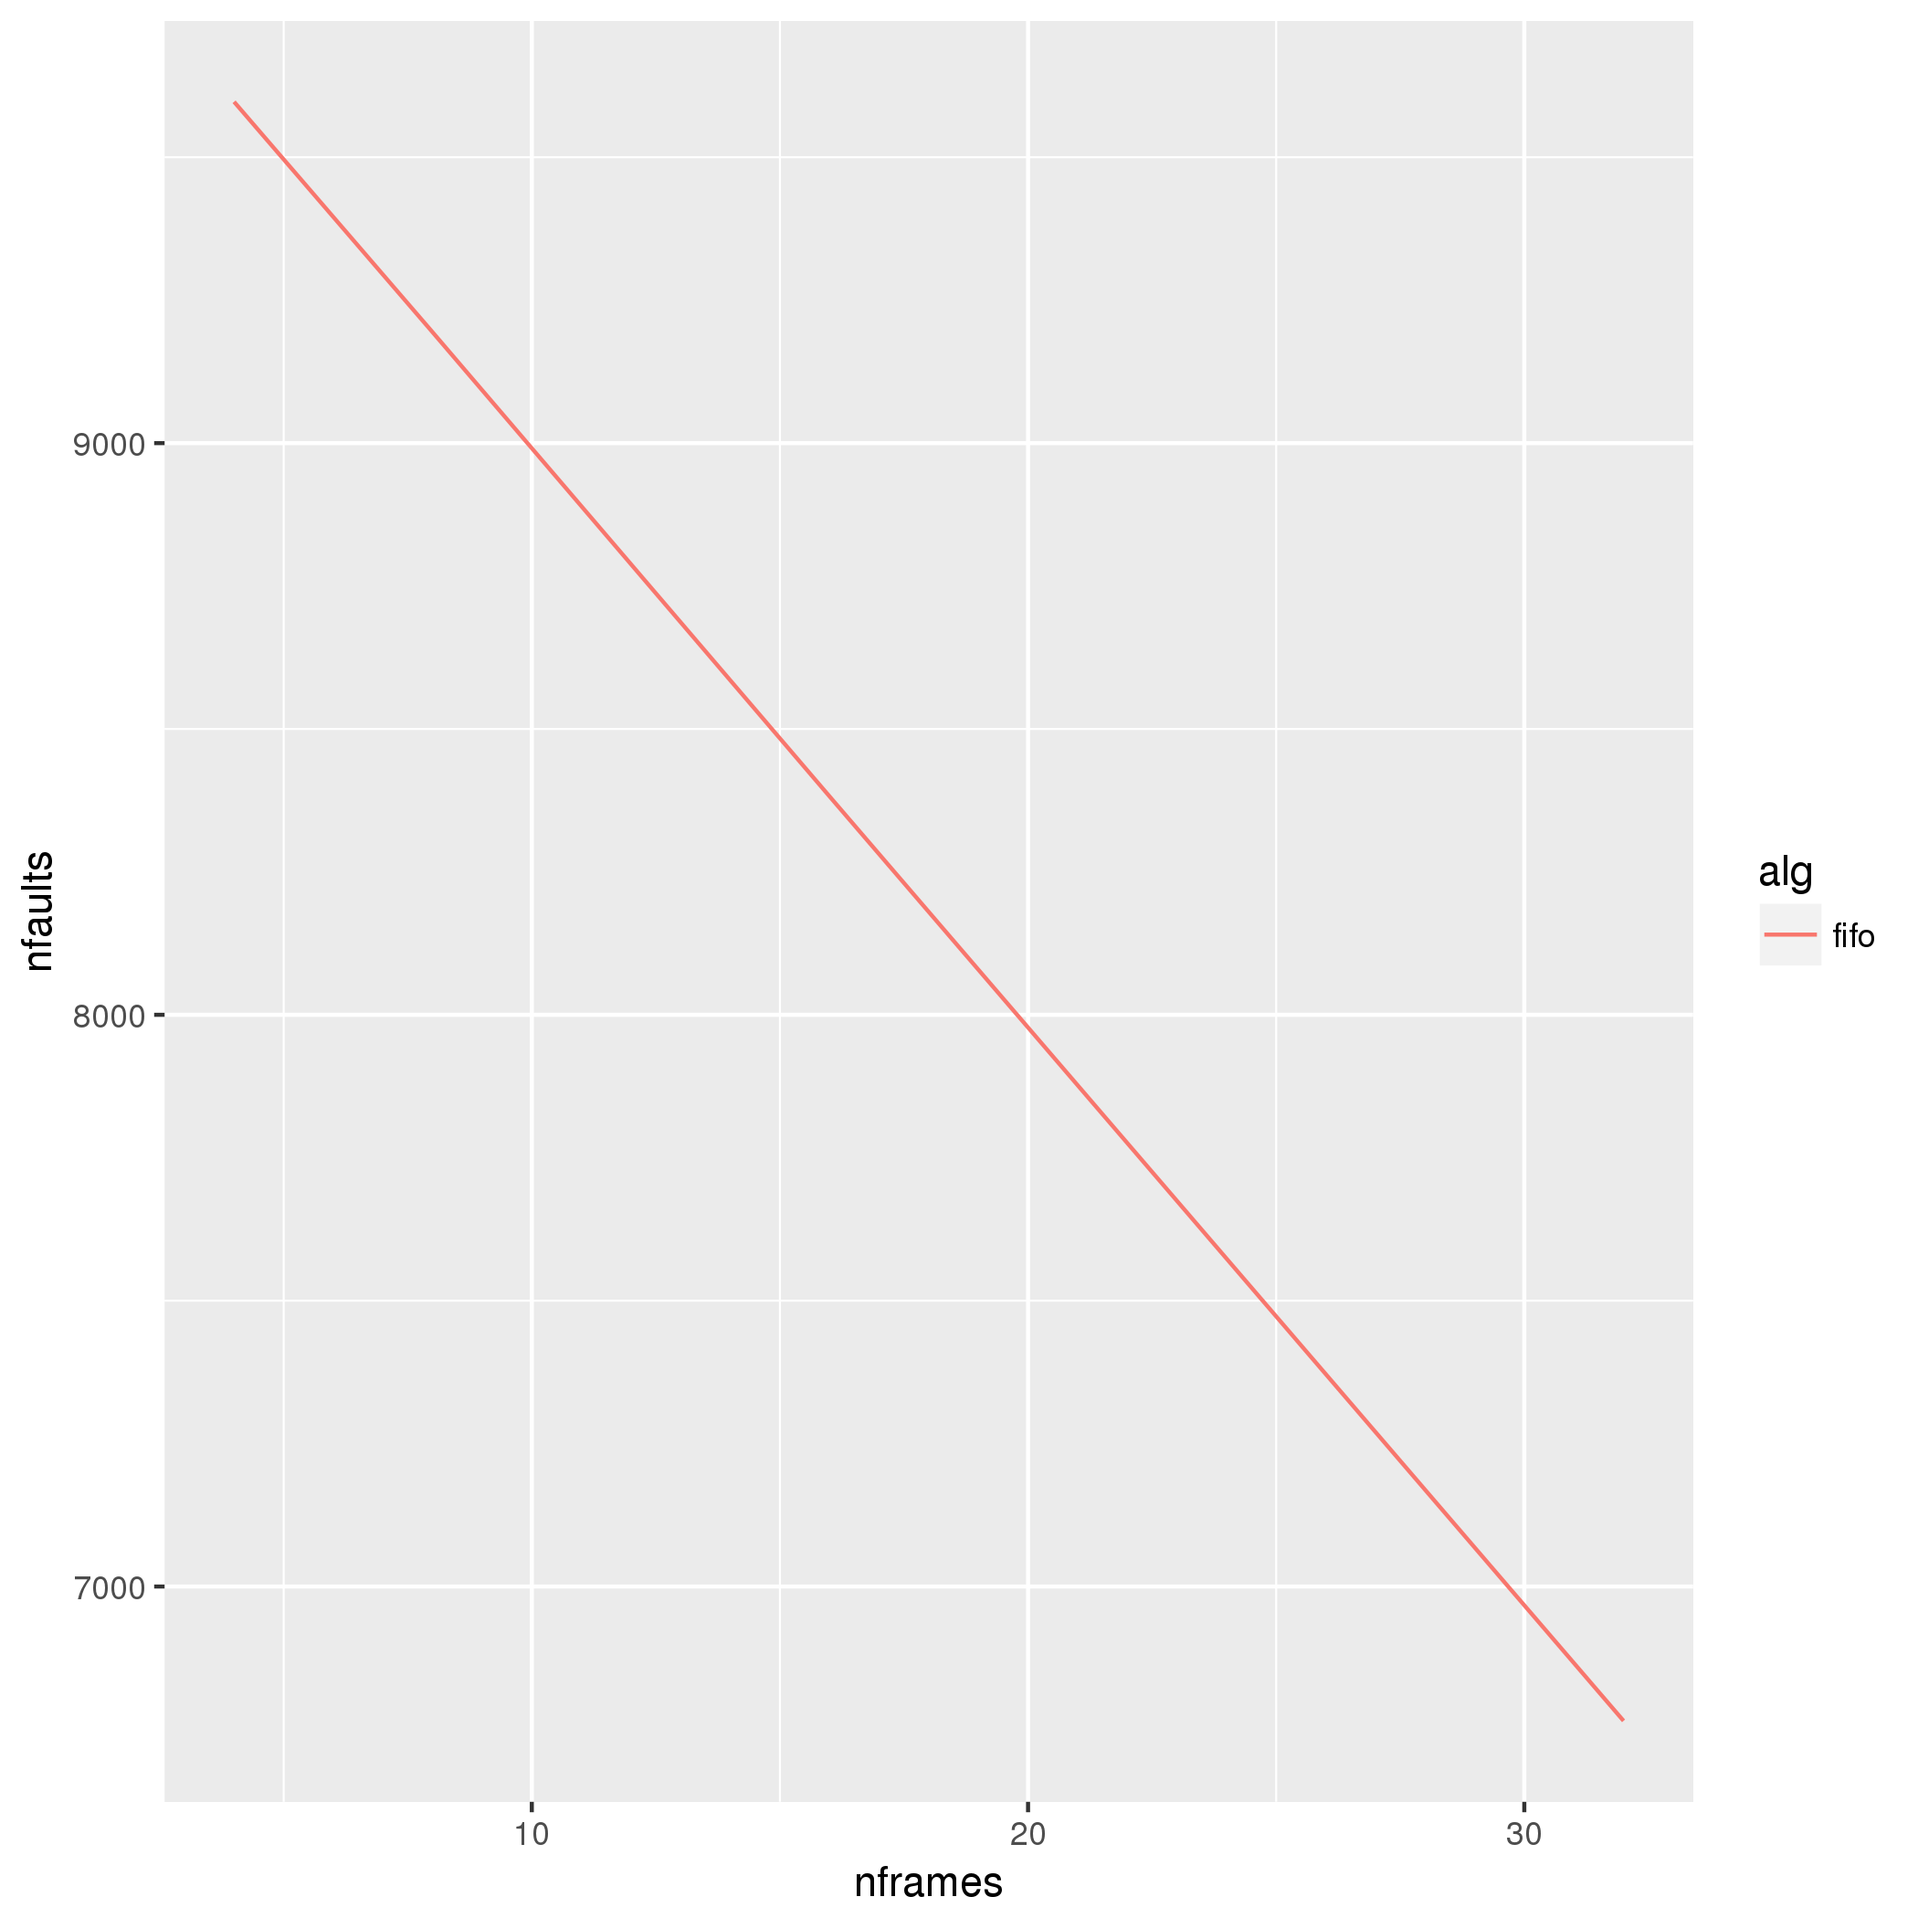
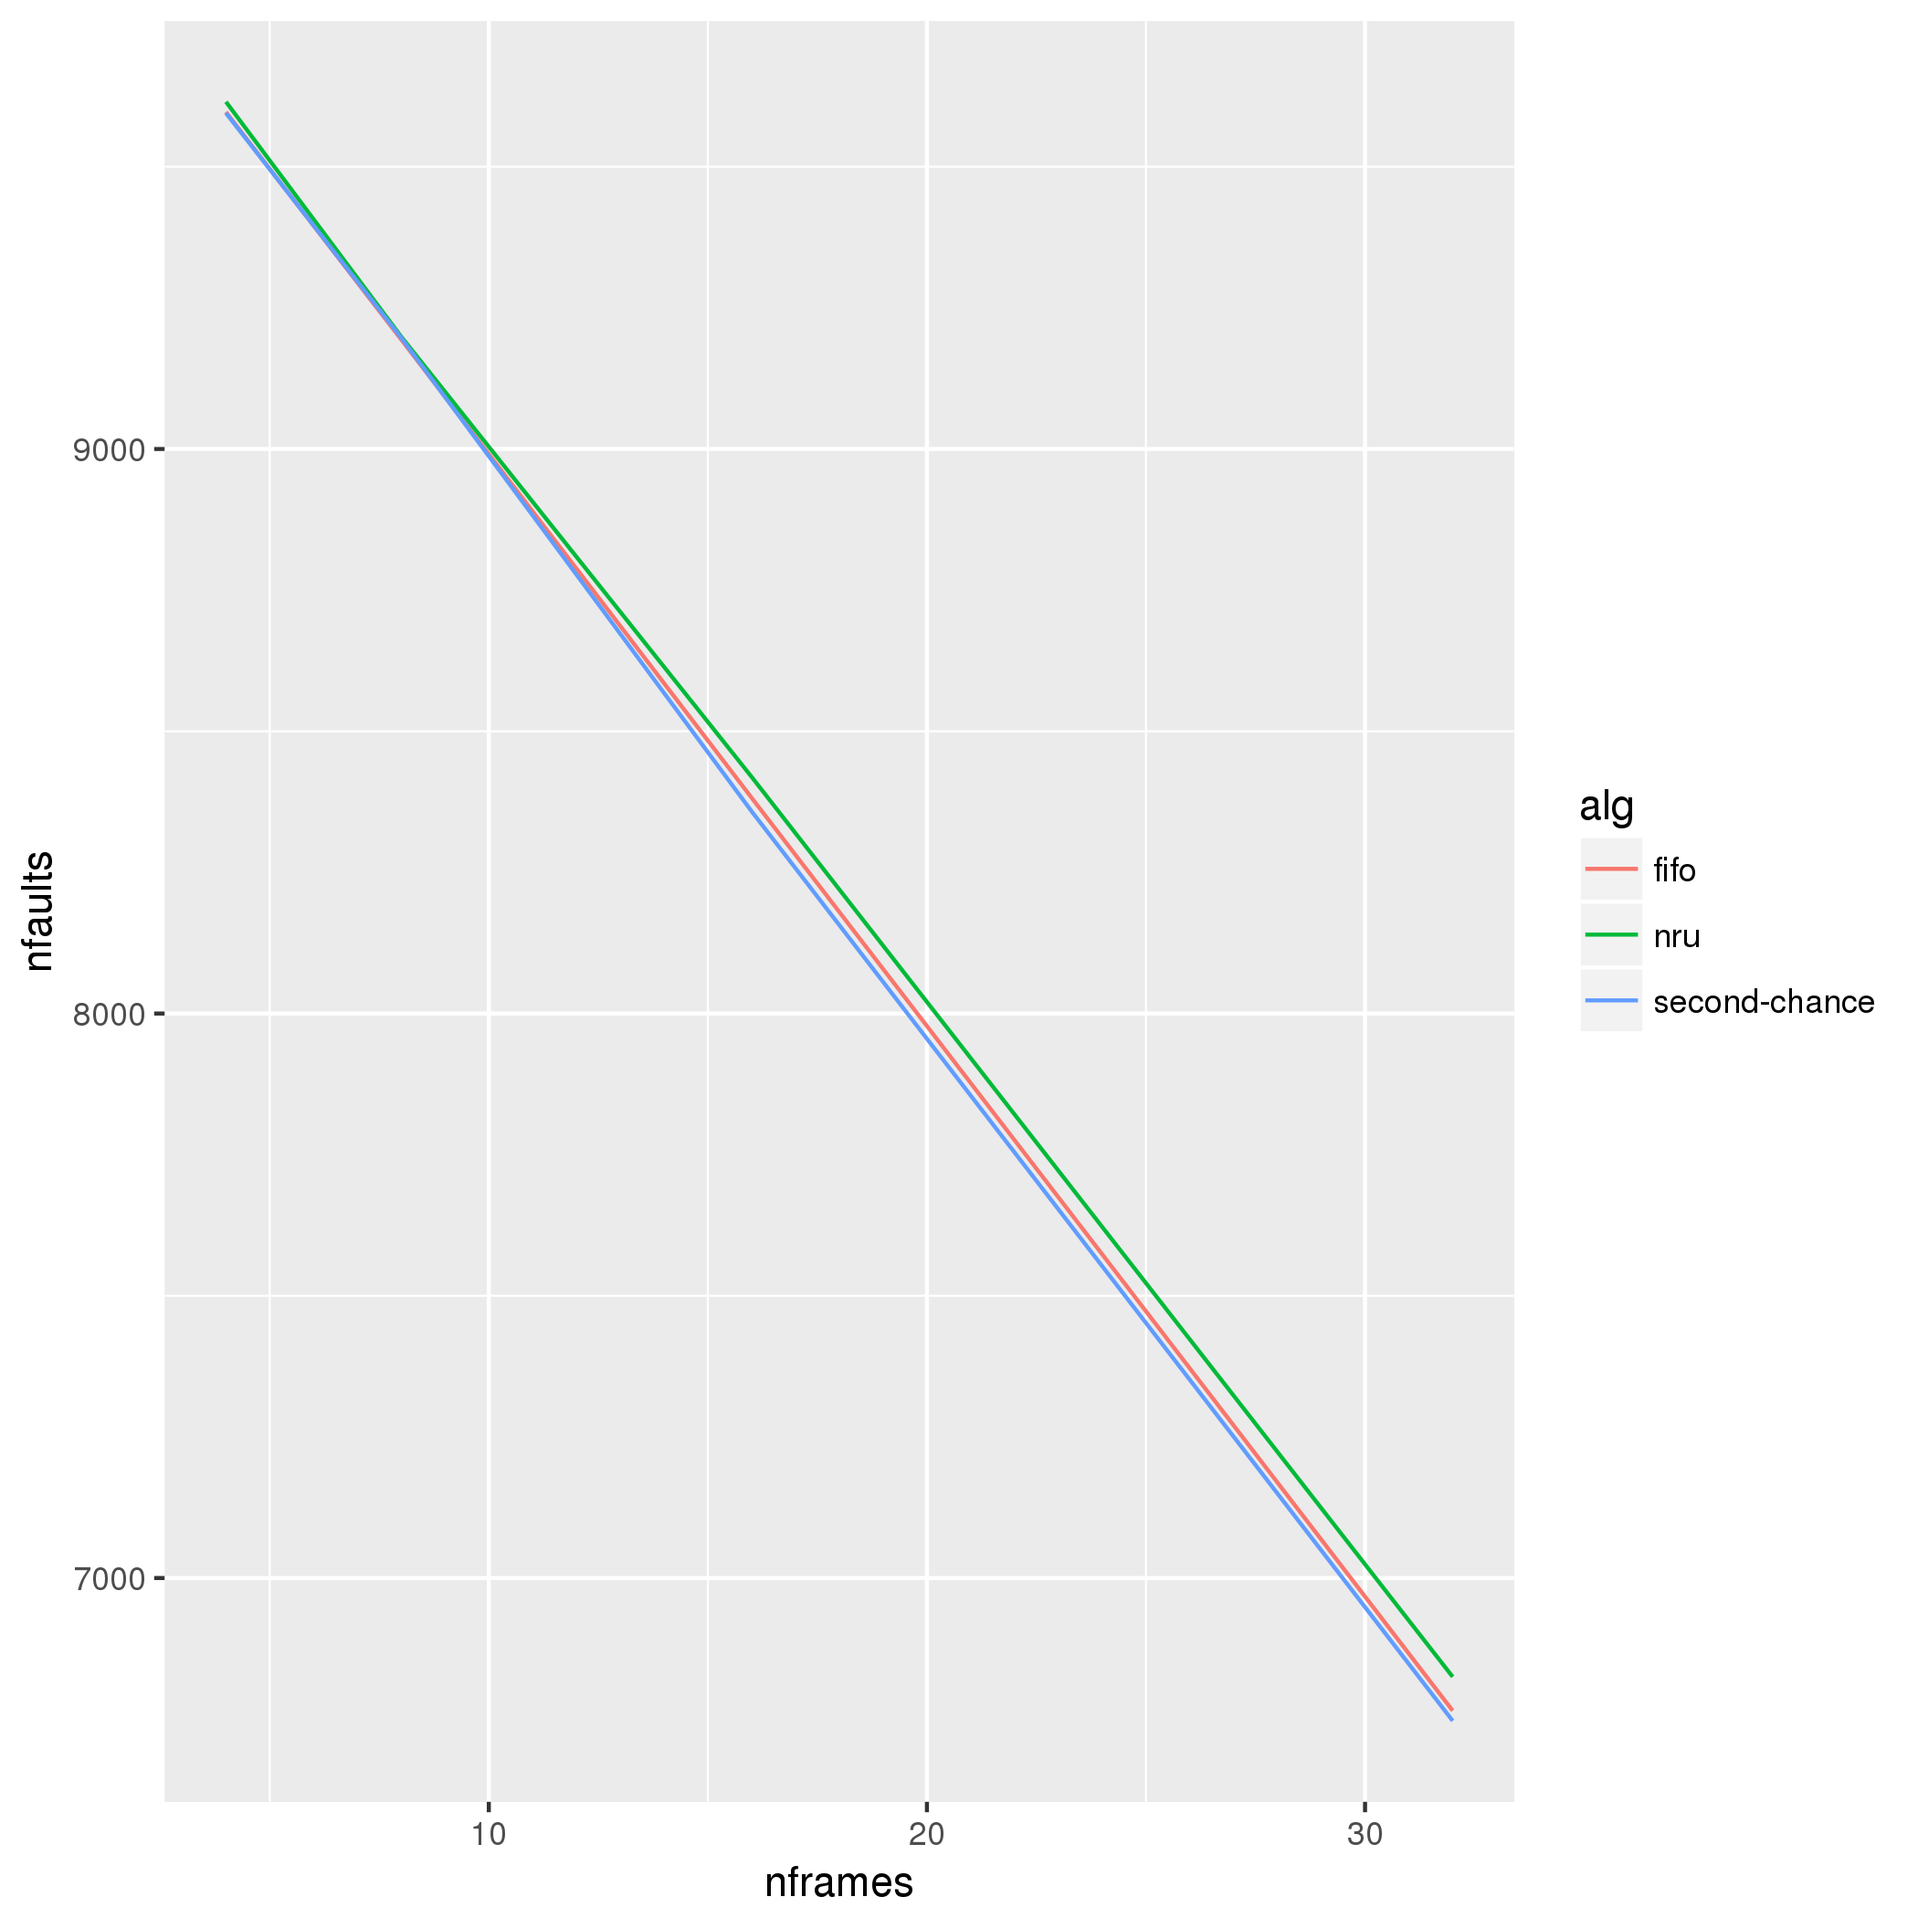
Finalização da escrita do NRU e Second Chance.
Aparentemente funcionais.

diff --git a/labSO5/python/algorithms.py b/labSO5/python/algorithms.py
@@ -24,5 +24,78 @@ class Fifo(Algorithm):
 		
   def evict(self):
     return self.fifo.pop(0)
-  
-	
+
+class SecondChance(Algorithm):
+  global REFERENCED
+  global NOT_REFERENCED
+  REFERENCED = 1
+  NOT_REFERENCED = not REFERENCED
+
+  def __init__(self):
+    self.fifo = []
+
+  def put(self, frameId):
+    self.fifo.append([frameId, REFERENCED])
+
+  def evict(self):
+    pageFrame = self.fifo.pop(0)
+
+    while pageFrame[1]: # Enquanto a pagina estiver referenciada
+      self.fifo.append([pageFrame[0], NOT_REFERENCED])
+      pageFrame = self.fifo.pop(0)
+
+    return pageFrame[0]
+
+  def access(self, frameId, isWrite):
+    for f_id in self.fifo:
+      if frameId == f_id[0]:
+        f_id[1] = REFERENCED
+
+class NRU(Algorithm):
+  global REFERENCED
+  global NOT_REFERENCED
+  global MODIFIED
+  global NOT_MODIFIED
+  REFERENCED = 1
+  NOT_REFERENCED = not REFERENCED
+  MODIFIED = 1
+  NOT_MODIFIED = not MODIFIED
+
+  def __init__(self):
+    self.page_frames = []
+
+  def put(self, frameId):
+    self.page_frames.append([frameId, REFERENCED, MODIFIED])
+
+  def evict(self):
+    self.page_frames.sort(key=lambda pf: pf[1])
+    self.page_frames.sort(key=lambda pf: pf[0])
+
+    return self.page_frames.pop(0)[0]
+
+  def clock(self):
+    for p_frame in self.page_frames:
+      p_frame[1] = NOT_REFERENCED
+
+  def access(self, frameId, isWrite):
+    for p_frame in self.page_frames:
+      if p_frame[0] == frameId:
+        p_frame[1] = REFERENCED
+        p_frame[2] = isWrite
+
+
+class Aging(Algorithm):
+  def __init__(self):
+    pass
+
+  def put(self, frameId):
+    pass
+
+  def evict(self):
+    pass
+
+  def clock(self):
+    pass
+
+  def access(self, frameId, isWrite):
+    pass

diff --git a/labSO5/python/phymem.py b/labSO5/python/phymem.py
@@ -21,7 +21,7 @@ class PhysicalMemory:
       "aging": Aging(),
       "second-chance": SecondChance()
     }
-    
+
     self.algorithm = self.algorithms[algorithm]
 
   def put(self, frameId):
